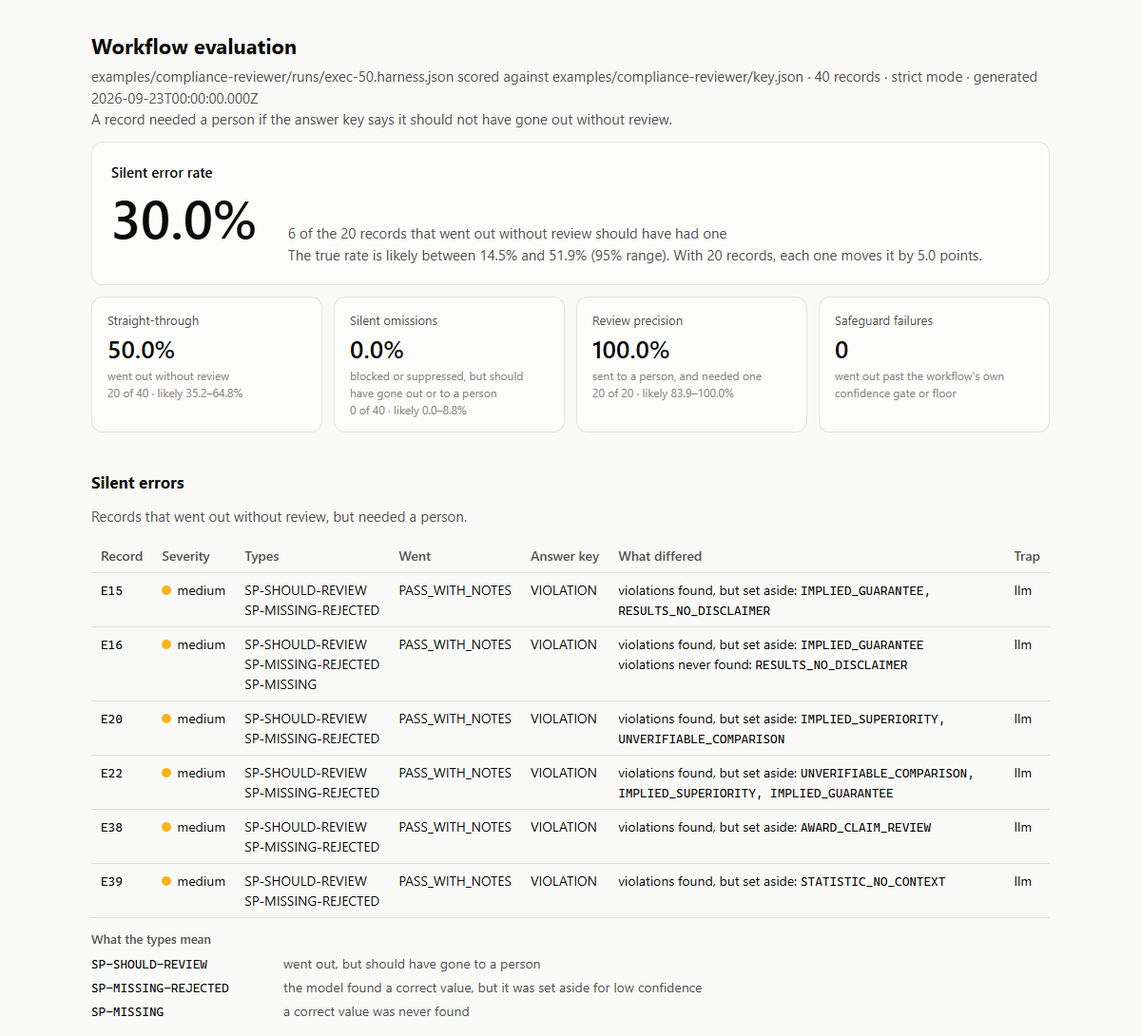
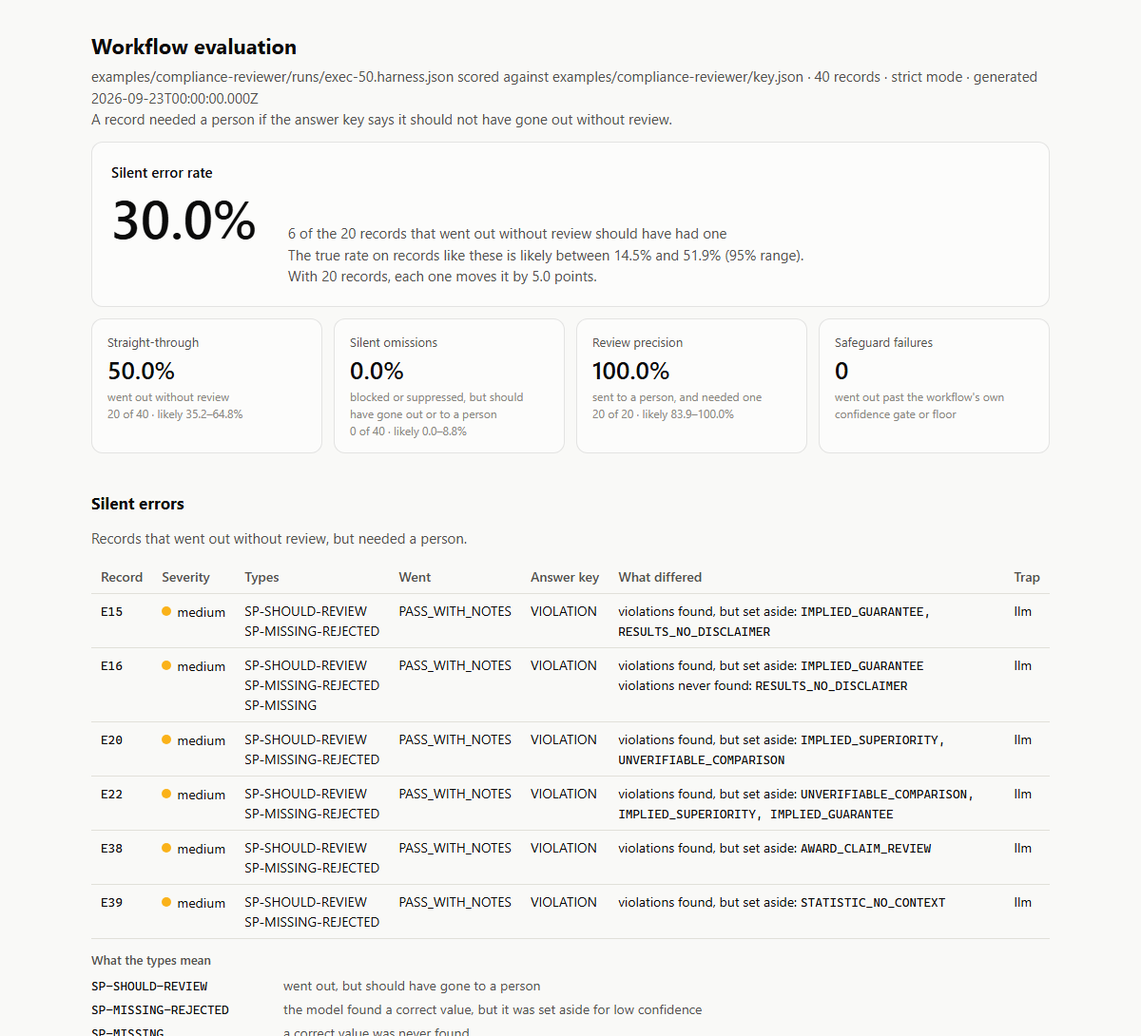
Honest ranges: quote the worst run, label golden-set rates as stress tests
Repeated runs of the same records are not new records. The three v3 runs
sent out 615 records, but only 254 different articles, and an article's
runs tend to go the same way, so the added-up 44 of 615 (likely 5.4-9.5%)
claimed a narrower range than the evidence holds (design effect; Kish 1965).
The README and notes now quote each run, and the worst: 18 of 210, likely
5.5-13.1%. The held-out half is reported run by run (worst 8 of 105,
likely 3.9-14.3%). Runs 61-63's "0 of 23, up to 14%" was the same 8
articles each time; one run's 0 of 7 allows up to 35%.

`variance` now names the worst run as the figure to quote and counts how
many different records the runs' totals are (trap I8), with a hand-worked
fixture test.

The Golden 500 sets were built to cover each workflow's traps, so their
rates (9.8%, 27%, v3's runs) are stress-test rates, not rates for real
traffic; that needs a random sample or stratum weights (Cochran 1977,
ch. 5). README, notes, docs and the Pages index say so, and reports now
say the likely range is for "records like these". Sample reports and the
README screenshot regenerated.

diff --git a/test/examples.test.js b/test/examples.test.js
@@ -65,6 +65,11 @@ test('runs 61-63: identical code, the numbers that moved and the one value state
   // workflow's salience gate exists for exactly this marginal claim (trap I7).
   assert.deepEqual(v.records.key_gap_candidates.filter(g => g.runs === g.of).map(g => [g.id, g.value]), [['A01', 'SUBJ-ANTI']]);
   assert.deepEqual(v.problems, []);
+  // 0 silent errors in 23 records out is the same 8 articles again and again (trap I8). The
+  // figure to quote is one run's: all three are 0%, and 0 of 7 has the widest range.
+  const w = v.silent_error_rate.worst_run;
+  assert.deepEqual([w.run, w.n, w.d, w.high_pct], [1, 0, 7, 35.4]);
+  assert.deepEqual([v.silent_error_rate.times_out, v.silent_error_rate.records_out], [23, 8]);
 });
 
 // Real data: both workflows on their 500-record golden sets. These pin the figures the README
@@ -87,20 +92,45 @@ test('Golden 500, metadata: v3 below 10% in three identical runs, beyond the noi
   const run = n => path.join(G, 'exec-' + n + '.json');
   const v = varianceRun({ config: cfg, keyPath: run(70), predPaths: [run(70), run(71), run(72)] });
   assert.deepEqual(v.metrics.find(m => m.name === 'silent error rate').values, [6.5, 6.3, 8.6]);
+  // The figure to quote is the worst run, never the runs added together (trap I8): their 615
+  // records out are 254 different articles.
+  const w = v.silent_error_rate.worst_run;
+  assert.deepEqual([w.run, w.n, w.d, w.low_pct, w.high_pct], [3, 18, 210, 5.5, 13.1]);
+  assert.deepEqual([v.silent_error_rate.times_out, v.silent_error_rate.records_out], [615, 254]);
   const c = compareRun({ config: cfg, keyPath: run(70), beforePath: run(69), afterPath: run(71), noisePaths: [run(70), run(71), run(72)] });
   assert.equal(c.metrics.find(m => m.name === 'silent error rate').verdict, 'beyond noise');
   const v1 = scoreRun({ config: cfg, predPath: run(68), keyPath: run(68) });
   assert.deepEqual([v1.routing.silent_errors.rate.n, v1.routing.silent_errors.rate.d], [54, 200]);
+  // Inside the 500, v1 again sent the original 24 articles out without an error (0 of 9).
+  const out = v1.records.filter(r => r.route_class === 'auto');
+  const original = out.filter(r => /^A\d+$/.test(r.id));
+  assert.deepEqual([original.filter(r => r.silent).length, original.length], [0, 9]);
 });
 
-test('Golden 500, metadata: the pooled v3 rate, and v1 articles missing a regulation or litigation subject', () => {
+// The guard's 0.40 was chosen on the articles whose id's CRC-32 (zlib's) is even, and checked
+// on the odd ones. Written out because zlib.crc32 needs Node 22.2.
+const CRC = Array.from({ length: 256 }, (_, n) => { let c = n; for (let k = 0; k < 8; k++) c = c & 1 ? 0xedb88320 ^ (c >>> 1) : c >>> 1; return c >>> 0; });
+const crc32 = s => { let c = 0xffffffff; for (const b of Buffer.from(s)) c = CRC[(c ^ b) & 0xff] ^ (c >>> 8); return (c ^ 0xffffffff) >>> 0; };
+
+test('Golden 500, metadata: v3 run by run on the tuning and held-out halves, and v1 articles missing a regulation or litigation subject', () => {
+  const { rate } = require('../src/metrics/stats.js');
+  assert.equal(crc32('123456789'), 0xcbf43926);   // the standard CRC-32 check value
   const G = path.join(dir, 'golden500');
   const cfg = loadConfig(path.join(G, 'config.json'));
   const run = n => path.join(G, 'exec-' + n + '.json');
-  // Pooled over the three v3 runs: counts added, never the three rates averaged (7.1%).
-  let n = 0, d = 0;
-  for (const r of [70, 71, 72]) { const s = scoreRun({ config: cfg, predPath: run(r), keyPath: run(r) }).routing.silent_errors.rate; n += s.n; d += s.d; }
-  assert.deepEqual([n, d, Number((100 * n / d).toFixed(1))], [44, 615, 7.2]);
+  // Each run on its own; never added up (trap I8).
+  const halves = { tuning: [], held_out: [] };
+  for (const n of [70, 71, 72]) {
+    const out = scoreRun({ config: cfg, predPath: run(n), keyPath: run(n) }).records.filter(r => r.route_class === 'auto');
+    for (const [name, parity] of [['tuning', 0], ['held_out', 1]]) {
+      const half = out.filter(r => crc32(r.id) % 2 === parity);
+      halves[name].push([half.filter(r => r.silent).length, half.length]);
+    }
+  }
+  assert.deepEqual(halves.tuning, [[8, 107], [6, 100], [10, 105]]);
+  assert.deepEqual(halves.held_out, [[5, 92], [7, 106], [8, 105]]);
+  const worst = rate(8, 105);
+  assert.deepEqual([worst.pct, worst.low_pct, worst.high_pct], [7.6, 3.9, 14.3]);
   // v1: count articles, not problems. B223 is missing both subjects.
   const silent = scoreRun({ config: cfg, predPath: run(68), keyPath: run(68) }).records.filter(r => r.silent);
   const missing = (r, code) => ['missing', 'missing_rejected'].some(b => ((r.differences[b] || {}).SUBJECT || []).includes(code));

diff --git a/docs/samples/compliance-golden500.html b/docs/samples/compliance-golden500.html
@@ -70,7 +70,7 @@ td.num, th.num { text-align: right; font-variant-numeric: tabular-nums; white-sp
 @media (max-width: 560px) { .hero-value { font-size: 44px; } }
 </style></head><body><main><h1>Workflow evaluation</h1>
 <p class="meta">examples/compliance-reviewer/golden500/exec-67.harness.json scored against examples/compliance-reviewer/golden500/exec-67.harness.json · 500 records · strict mode · generated 2026-09-29T00:00:00.000Z<br>A record needed a person if the answer key says it should not have gone out without review.</p>
-<section class="card hero"><div class="hero-label">Silent error rate</div><div class="hero-value">9.8%</div><div class="hero-note">25 of the 256 records that went out without review should have had one<br>The true rate is likely between 6.7% and 14.0% (95% range). With 256 records, each one moves it by 0.4 points.</div></section>
+<section class="card hero"><div class="hero-label">Silent error rate</div><div class="hero-value">9.8%</div><div class="hero-note">25 of the 256 records that went out without review should have had one<br>The true rate on records like these is likely between 6.7% and 14.0% (95% range).<br>With 256 records, each one moves it by 0.4 points.</div></section>
 <div class="tiles"><div class="tile"><div class="tile-label">Straight-through</div><div class="tile-value">51.2%</div><div class="tile-note">went out without review<br>256 of 500 · likely 46.8–55.6%</div></div><div class="tile"><div class="tile-label">Silent omissions</div><div class="tile-value">0.0%</div><div class="tile-note">blocked or suppressed, but should have gone out or to a person<br>0 of 500 · likely 0.0–0.8%</div></div><div class="tile"><div class="tile-label">Review precision</div><div class="tile-value">89.3%</div><div class="tile-note">sent to a person, and needed one<br>218 of 244 · likely 84.8–92.6%</div></div><div class="tile"><div class="tile-label">Safeguard failures</div><div class="tile-value">0</div><div class="tile-note">went out past the workflow's own confidence gate or floor</div></div></div>
 <h2>Silent errors</h2>
 <p>Records that went out without review, but needed a person.</p>

diff --git a/docs/samples/compliance-before.html b/docs/samples/compliance-before.html
@@ -70,7 +70,7 @@ td.num, th.num { text-align: right; font-variant-numeric: tabular-nums; white-sp
 @media (max-width: 560px) { .hero-value { font-size: 44px; } }
 </style></head><body><main><h1>Workflow evaluation</h1>
 <p class="meta">examples/compliance-reviewer/runs/exec-50.harness.json scored against examples/compliance-reviewer/key.json · 40 records · strict mode · generated 2026-09-23T00:00:00.000Z<br>A record needed a person if the answer key says it should not have gone out without review.</p>
-<section class="card hero"><div class="hero-label">Silent error rate</div><div class="hero-value">30.0%</div><div class="hero-note">6 of the 20 records that went out without review should have had one<br>The true rate is likely between 14.5% and 51.9% (95% range). With 20 records, each one moves it by 5.0 points.</div></section>
+<section class="card hero"><div class="hero-label">Silent error rate</div><div class="hero-value">30.0%</div><div class="hero-note">6 of the 20 records that went out without review should have had one<br>The true rate on records like these is likely between 14.5% and 51.9% (95% range).<br>With 20 records, each one moves it by 5.0 points.</div></section>
 <div class="tiles"><div class="tile"><div class="tile-label">Straight-through</div><div class="tile-value">50.0%</div><div class="tile-note">went out without review<br>20 of 40 · likely 35.2–64.8%</div></div><div class="tile"><div class="tile-label">Silent omissions</div><div class="tile-value">0.0%</div><div class="tile-note">blocked or suppressed, but should have gone out or to a person<br>0 of 40 · likely 0.0–8.8%</div></div><div class="tile"><div class="tile-label">Review precision</div><div class="tile-value">100.0%</div><div class="tile-note">sent to a person, and needed one<br>20 of 20 · likely 83.9–100.0%</div></div><div class="tile"><div class="tile-label">Safeguard failures</div><div class="tile-value">0</div><div class="tile-note">went out past the workflow's own confidence gate or floor</div></div></div>
 <h2>Silent errors</h2>
 <p>Records that went out without review, but needed a person.</p>

diff --git a/docs/samples/compliance-after.html b/docs/samples/compliance-after.html
@@ -70,7 +70,7 @@ td.num, th.num { text-align: right; font-variant-numeric: tabular-nums; white-sp
 @media (max-width: 560px) { .hero-value { font-size: 44px; } }
 </style></head><body><main><h1>Workflow evaluation</h1>
 <p class="meta">examples/compliance-reviewer/runs/exec-59.harness.json scored against examples/compliance-reviewer/key.json · 40 records · strict mode · generated 2026-09-23T00:00:00.000Z<br>A record needed a person if the answer key says it should not have gone out without review.</p>
-<section class="card hero"><div class="hero-label">Silent error rate</div><div class="hero-value">6.7%</div><div class="hero-note">1 of the 15 records that went out without review should have had one<br>The true rate is likely between 1.2% and 29.8% (95% range). With 15 records, each one moves it by 6.7 points.</div></section>
+<section class="card hero"><div class="hero-label">Silent error rate</div><div class="hero-value">6.7%</div><div class="hero-note">1 of the 15 records that went out without review should have had one<br>The true rate on records like these is likely between 1.2% and 29.8% (95% range).<br>With 15 records, each one moves it by 6.7 points.</div></section>
 <div class="tiles"><div class="tile"><div class="tile-label">Straight-through</div><div class="tile-value">37.5%</div><div class="tile-note">went out without review<br>15 of 40 · likely 24.2–53.0%</div></div><div class="tile"><div class="tile-label">Silent omissions</div><div class="tile-value">0.0%</div><div class="tile-note">blocked or suppressed, but should have gone out or to a person<br>0 of 40 · likely 0.0–8.8%</div></div><div class="tile"><div class="tile-label">Review precision</div><div class="tile-value">100.0%</div><div class="tile-note">sent to a person, and needed one<br>25 of 25 · likely 86.7–100.0%</div></div><div class="tile"><div class="tile-label">Safeguard failures</div><div class="tile-value">0</div><div class="tile-note">went out past the workflow's own confidence gate or floor</div></div></div>
 <h2>Silent errors</h2>
 <p>Records that went out without review, but needed a person.</p>

diff --git a/src/metrics/runs.js b/src/metrics/runs.js
@@ -95,6 +95,29 @@ function keyGapCandidates(runs, config) {
     .sort((a, b) => b.runs - a.runs);
 }
 
+// The silent error rate to quote from repeated runs: the worst run's, with its likely range.
+// Never the runs added together (trap I8). They repeat the same records, and a record's runs
+// tend to go the same way, so an added-up count looks like more evidence than it is and its
+// likely range comes out too narrow. Worst means the highest rate, compared as exact fractions
+// (trap G6); on a tie, the run with the wider range. times_out counts a record once per run it
+// went out in; records_out counts it once.
+function silentToQuote(runs) {
+  const rates = runs.map(run => run.results.routing.silent_errors.rate);
+  let worst = null;
+  rates.forEach((r, i) => {
+    if (r.d === 0) return;
+    const w = worst === null ? null : rates[worst];
+    if (w === null || r.n * w.d > w.n * r.d || (r.n * w.d === w.n * r.d && r.high_pct > w.high_pct)) worst = i;
+  });
+  const out = new Set();
+  for (const run of runs) for (const rec of run.results.records) if (rec.route_class === 'auto') out.add(rec.id);
+  return {
+    worst_run: worst === null ? null : { run: worst + 1, label: runs[worst].label, ...rates[worst] },
+    times_out: rates.reduce((s, r) => s + r.d, 0),
+    records_out: out.size,
+  };
+}
+
 // runs: [{ label, results }], two or more.
 function varianceOf(runs, config) {
   const metrics = metricList(runs[0].results).map(m => {
@@ -122,6 +145,7 @@ function varianceOf(runs, config) {
   return {
     runs: runs.map(r => r.label),
     metrics,
+    silent_error_rate: silentToQuote(runs),
     records: {
       route_changed: rows.filter(r => new Set(r.routes).size > 1).map(r => ({ id: r.id, routes: r.routes, should: r.gold_route })),
       silent_changed: rows.filter(r => new Set(r.silent).size > 1).map(r => ({ id: r.id, silent: r.silent })),

diff --git a/docs/samples/metadata-golden500.html b/docs/samples/metadata-golden500.html
@@ -70,7 +70,7 @@ td.num, th.num { text-align: right; font-variant-numeric: tabular-nums; white-sp
 @media (max-width: 560px) { .hero-value { font-size: 44px; } }
 </style></head><body><main><h1>Workflow evaluation</h1>
 <p class="meta">examples/metadata-enrichment/golden500/exec-70.json scored against examples/metadata-enrichment/golden500/exec-70.json · 500 records · strict mode · generated 2026-09-29T00:00:00.000Z<br>A record needed a person if its values differ from the answer key.</p>
-<section class="card hero"><div class="hero-label">Silent error rate</div><div class="hero-value">6.5%</div><div class="hero-note">13 of the 199 records that went out without review should have had one<br>The true rate is likely between 3.9% and 10.9% (95% range). With 199 records, each one moves it by 0.5 points.</div></section>
+<section class="card hero"><div class="hero-label">Silent error rate</div><div class="hero-value">6.5%</div><div class="hero-note">13 of the 199 records that went out without review should have had one<br>The true rate on records like these is likely between 3.9% and 10.9% (95% range).<br>With 199 records, each one moves it by 0.5 points.</div></section>
 <div class="tiles"><div class="tile"><div class="tile-label">Straight-through</div><div class="tile-value">39.8%</div><div class="tile-note">went out without review<br>199 of 500 · likely 35.6–44.2%</div></div><div class="tile"><div class="tile-label">Review precision</div><div class="tile-value">44.0%</div><div class="tile-note">sent to a person, and needed one<br>118 of 268 · likely 38.2–50.0%</div></div><div class="tile"><div class="tile-label">Safeguard failures</div><div class="tile-value">0</div><div class="tile-note">went out past the workflow's own confidence gate or floor</div></div></div>
 <h2>Silent errors</h2>
 <p>Records that went out without review, but needed a person.</p>

diff --git a/src/report/terminal.js b/src/report/terminal.js
@@ -30,7 +30,7 @@ function headline(results) {
   const lines = ['HEADLINE', table(rows, [1, 2])];
   const se = r.silent_errors;
   if (se.one_record_moves_pct !== null && se.rate.d > 1) {
-    lines.push('  The likely range is where the true rate probably sits (95%). With ' + se.rate.d +
+    lines.push('  The likely range is where the true rate on records like these probably sits (95%). With ' + se.rate.d +
       ' records out without review, each one moves the silent error rate by ' + se.one_record_moves_pct.toFixed(1) + ' points.');
   }
   return lines.join('\n');
@@ -187,6 +187,16 @@ function renderVariance(v) {
   } else if (silent && silent.range !== null) {
     parts.push('Identical code put the silent error rate anywhere from ' + fmt(silent.min, 'points') + ' to ' + fmt(silent.max, 'points') +
       '. A single run cannot claim more precision than that ' + fmtSpread(silent.range, 'points') + ' range.');
+  }
+  // Trap I8: quote the worst run, never the runs added together.
+  const q = v.silent_error_rate;
+  if (q.worst_run) {
+    const w = q.worst_run;
+    parts.push('The figure to quote is the worst run, run ' + w.run + ': ' + pct(w) + ' (' + count(w) + '; likely ' + range(w) + ').' +
+      (q.records_out < q.times_out
+        ? ' Not the runs added together: their ' + q.times_out + ' records out without review are ' + q.records_out +
+          ' different records, and a record\'s runs tend to go the same way, so the added-up count would look like more evidence than it is.'
+        : ''));
   }
   const rc = v.records.route_changed;
   parts.push('RECORDS THAT CHANGED ROUTE  ' + (rc.length ? '' : 'none') +

diff --git a/docs/index.html b/docs/index.html
@@ -33,12 +33,15 @@ li a:hover, li a:focus-visible { border-color: var(--link); }
     <li><a href="samples/compliance-after.html"><span class="title">After the prompt fix: silent error rate <span class="rate">6.7%</span></span>
       <span class="detail">1 of 15; the same in all four runs</span></a></li>
   </ul>
-  <h2>Both workflows on 500-record golden sets</h2>
+  <h2>Both workflows on 500-record stress tests</h2>
+  <p>Golden sets built to cover each workflow's traps, so they hold far more hard cases than real
+  traffic. Their rates are stress-test rates, for comparing versions on the same records, not the
+  rate real traffic would see.</p>
   <ul>
     <li><a href="samples/compliance-golden500.html"><span class="title">Compliance reviewer: silent error rate <span class="rate">9.8%</span></span>
       <span class="detail">25 of 256; 15 of the 25 are award claims</span></a></li>
     <li><a href="samples/metadata-golden500.html"><span class="title">News-metadata tagger: silent error rate <span class="rate">6.5%</span></span>
-      <span class="detail">13 of 199 (run 70); 6.3% to 8.6% across three identical runs</span></a></li>
+      <span class="detail">13 of 199 (run 70); 6.3% to 8.6% across three identical runs, the worst 18 of 210</span></a></li>
   </ul>
   <p><a href="https://github.com/DHuberPortfolio/workflow-eval-harness">The code, tests and notes on GitHub</a></p>
 </main>

diff --git a/test/runs.test.js b/test/runs.test.js
@@ -86,6 +86,16 @@ test('I3: the same run passed twice is a warning', () => {
   assert.deepEqual(v.problems.map(p => p.trap), ['I3']);
 });
 
+test('I8: variance quotes the worst run, never the runs added together', () => {
+  const q = V.silent_error_rate;
+  const w = q.worst_run;
+  assert.deepEqual([w.run, w.n, w.d, w.pct, w.low_pct, w.high_pct], [1, 1, 2, 50, 9.5, 90.5]);
+  // Added up, the runs send out 6 records, but those are R1 three times, R2 twice and R4 once.
+  assert.deepEqual([q.times_out, q.records_out], [6, 3]);
+  const { renderVariance } = require('../src/report/terminal.js');
+  assert.match(renderVariance(V), /The figure to quote is the worst run, run 1: 50\.0% \(1 of 2; likely 9\.5-90\.5%\)\. Not the runs added together: their 6 records out without review are 3 different records/);
+});
+
 test('compare a -> b: a 50-point drop in silent errors, yet within the noise of identical runs', () => {
   const c = compareRun({ config, keyPath, beforePath: run('a'), afterPath: run('b'), noisePaths: [run('a'), run('b'), run('c')] });
   const m = metric(c, 'silent error rate');

diff --git a/src/report/html.js b/src/report/html.js
@@ -21,8 +21,8 @@ function heroNote(rate, moves) {
     ? 'The only record that went out without review ' + (rate.n ? 'should have had one' : 'did not need one')
     : rate.n + ' of the ' + rate.d + ' records that went out without review should have had one';
   if (rate.low_pct === null) return what;
-  return what + '<br>The true rate is likely between ' + rate.low_pct.toFixed(1) + '% and ' + rate.high_pct.toFixed(1) + '% (95% range).' +
-    (rate.d > 1 && moves !== null ? ' With ' + rate.d + ' records, each one moves it by ' + moves.toFixed(1) + ' points.' : '');
+  return what + '<br>The true rate on records like these is likely between ' + rate.low_pct.toFixed(1) + '% and ' + rate.high_pct.toFixed(1) + '% (95% range).' +
+    (rate.d > 1 && moves !== null ? '<br>With ' + rate.d + ' records, each one moves it by ' + moves.toFixed(1) + ' points.' : '');
 }
 
 // An error type such as SP-SHOULD-REVIEW, kept on one line rather than broken at its hyphens.

diff --git a/test/html.test.js b/test/html.test.js
@@ -19,7 +19,7 @@ test('the report is one file: no external scripts, styles, fonts or images', () 
 test('the headline and the silent error record are in the report', () => {
   assert.match(html, /<div class="hero-value">50\.0%<\/div>/);
   assert.match(html, /1 of the 2 records that went out without review should have had one/);
-  assert.match(html, /The true rate is likely between 9\.5% and 90\.5% \(95% range\)\. With 2 records, each one moves it by 50\.0 points\./);
+  assert.match(html, /The true rate on records like these is likely between 9\.5% and 90\.5% \(95% range\)\.<br>With 2 records, each one moves it by 50\.0 points\./);
   assert.match(html, /<code>R2<\/code>/);
   assert.match(html, /SUBJ-ANTI/);
 });

diff --git a/README.md b/README.md
@@ -13,6 +13,13 @@ Both are AI workflows built in n8n. Each was scored first on a small golden set,
 500-record golden set built to cover its traps. The harness reads their exports through a
 config, the same way it reads a Zapier export, a script's log, an API response or a spreadsheet.
 
+None of these golden sets is a random sample of real traffic: each record was written to test
+something, and the 500-record sets hold far more hard cases than real traffic would. So every
+rate below is a **stress-test rate**: how the workflow does on records chosen to trip it, the
+right yardstick for comparing versions on the same set, but not the rate its real traffic would
+see. That takes a random sample of real traffic with its own answer key, or each kind of record
+weighted by its real share (stratified estimation; Cochran 1977, ch. 5).
+
 **A compliance reviewer for law-firm advertising.** A regex layer catches banned words; an
 LLM catches implied violations, and holds the copy for a person only when its confidence
 clears the client's threshold. Below the threshold, the finding becomes a note and the copy
@@ -26,9 +33,9 @@ threshold: a prompt that anchors what each confidence level means brought it to 
 runs out of four, a drop well beyond the old prompt's run-to-run noise. The workflow's
 scorecard now reports the silent error rate too.
 
-On 500 documents (243 violations; 257 clean, 112 of them built to look like violations) the
-silent error rate is **9.8%** (25 of 256; likely 6.7-14.0%), with 89.7% of violations reaching
-a person. The larger set shows where the rest is: 15 of the 25 silent errors are award claims
+On a 500-document stress test (243 violations; 257 clean, 112 of them built to look like
+violations) the silent error rate is **9.8%** (25 of 256; likely 6.7-14.0%), with 89.7% of
+violations reaching a person. The larger set shows where the rest is: 15 of the 25 silent errors are award claims
 ("Named to Super Lawyers"), which the model rates 0.75 almost every time, under every client's
 threshold; and 23 of the 26 clean documents sent to a person anyway were flagged by regex
 rules that cannot read context (a fee counted as a result, "We cannot guarantee" read as a
@@ -40,15 +47,20 @@ the answer key lacks, for a person to rule on (the same mistake can repeat every
 ([review](examples/compliance-reviewer/KEY_GAPS.md))
 
 **A news-metadata tagger** (controlled-vocabulary codes on four facets). On 24 articles,
-three runs found 0 silent errors in the 23 that went out without review, which the harness
-said still allowed a true rate up to 14%. On 500 articles it was **27%**. The small set was
-not representative, and a likely range only covers chance, not an unrepresentative golden set.
+three runs sent 7, 8 and 8 articles out without review, none with an error. They were the same
+8 articles each time, and no errors in 8 still allows a true rate up to 32%: the small set
+could never have shown the tagger was good enough. On the 500-article stress test, the same
+pipeline's rate was **27%**.
 
 Two prompt fixes and a new guard (a tag the model proposed but set aside goes to an editor)
-brought it to **7.2% across three runs of identical code** (44 of 615, likely 5.4-9.5%; the
-runs gave 6.3%, 6.5% and 8.6%), a drop beyond run-to-run noise. On the half of the articles the
-guard's threshold was not tuned on, it is 6.6%. The price: 41% of articles now go out without
-review, down from 47%, and more than half of the reviews are ones an editor did not need.
+brought it to **6.3% to 8.6% in three runs of identical code**, a drop beyond run-to-run noise.
+The worst run is the one to quote: 8.6% (18 of 210, likely 5.5-13.1%). The runs are not added
+together: they send out the same articles again (their 615 records out are 254 articles), and
+an article's runs tend to go the same way, so an added-up 44 of 615 would claim a narrower
+range than the evidence holds (the design effect; Kish 1965). On the half of the articles the
+guard's threshold was not tuned on, the runs gave 5.4% to 7.6% (worst: 8 of 105, likely
+3.9-14.3%). The price: about 41% of articles now go out without review, down from 47%, and
+more than half of the reviews are ones an editor did not need.
 ([notes](examples/metadata-enrichment/NOTES.md))
 
 ![The HTML report for the compliance reviewer before its prompt fix: silent error rate 30.0%, six silent errors listed](docs/samples/compliance-before.png)
@@ -56,7 +68,7 @@ review, down from 47%, and more than half of the reviews are ones an editor did 
 Open the full reports, each one self-contained HTML file: the compliance reviewer
 [before](https://dhuberportfolio.github.io/workflow-eval-harness/samples/compliance-before.html) and
 [after](https://dhuberportfolio.github.io/workflow-eval-harness/samples/compliance-after.html) its prompt fix on 40 documents,
-and both workflows on 500 records:
+and both workflows on their 500-record stress tests:
 [compliance reviewer](https://dhuberportfolio.github.io/workflow-eval-harness/samples/compliance-golden500.html),
 [metadata tagger](https://dhuberportfolio.github.io/workflow-eval-harness/samples/metadata-golden500.html).
 
@@ -72,15 +84,18 @@ nothing until something marks it, and the marking is where the two workflows abo
 2. **It counts the mistakes that matter.** In the metadata tagger's first 500-article run, 99%
    of the tags it applied were correct, yet 27% of the articles it published without review
    had an error. An average hides that; the silent error rate does not.
-3. **It says how far to trust a number.** "0 errors in 23" looked perfect; the real rate was
-   27%. Three identical runs gave 6.3%, 6.5% and 8.6%. Likely ranges and repeated runs tell a
-   real improvement from luck, and `compare` says whether a change is beyond noise.
+3. **It says how far to trust a number.** No errors in the 8 articles the tagger sent out
+   looked perfect; it still allowed a rate up to 32%, and on the 500-article stress test the
+   rate was 27%. Three identical runs gave 6.3%, 6.5% and 8.6%: `variance` says to quote the
+   worst, and why the three are not added up. Likely ranges and repeated runs tell a real
+   improvement from luck, and `compare` says whether a change is beyond noise.
 4. **It says why, not just how often.** The model had found the violations and understated its
    confidence, so the fix was the prompt, not the threshold. 15 of 25 misses were award claims.
    Regex rules, not the AI, caused most unnecessary reviews. A pass/fail count points at none
    of that.
 5. **It answers "what if" for free.** Capping thresholds at 0.85 and sending award claims to a
-   person: 1.3%, computed from the recorded answers without running the workflow again.
+   person: 1.3% on the same 500 documents, computed from the recorded answers without running
+   the workflow again.
 6. **It checks the answer key too.** It surfaced 9 real violations the compliance answer key
    had missed, and it stops rather than count anything it cannot read correctly.
 7. **One yardstick for every workflow.** Each workflow's home-made scorecard measures in its own
@@ -109,7 +124,7 @@ HEADLINE
   Review precision      50.0%        1 of 2   9.5-90.5%      sent to a person, and needed one
   Block precision      100.0%        1 of 1   20.7-100.0%    blocked, and the answer key agrees
   Safeguard failures            0 record(s)                  went out past the workflow's own confidence gate or floor
-  The likely range is where the true rate probably sits (95%). With 2 records out without review, each one moves the silent error rate by 50.0 points.
+  The likely range is where the true rate on records like these probably sits (95%). With 2 records out without review, each one moves the silent error rate by 50.0 points.
 
 SILENT ERRORS  1 record(s)  (high 1): went out without review, but needed a person
   R2      high      SP-WRONG, SP-SHOULD-REVIEW   [plausible-extra-tag]
@@ -129,7 +144,7 @@ by number.
 | Command | Question it answers |
 |---|---|
 | `wfeval score` | How did this run do? Silent errors by type and severity, routing, output quality, per-trap results, calibration. `--fail-on critical` exits non-zero, to stop a build. |
-| `wfeval variance` | How much do the numbers move between runs of identical code? Mean, spread and range per metric, the records that behave differently run to run, and possible key gaps: values stated in every run that the answer key does not list, for a person to rule on. |
+| `wfeval variance` | How much do the numbers move between runs of identical code? Mean, spread and range per metric; the worst run's silent error rate, the one to quote (runs are never added together); the records that behave differently run to run; and possible key gaps: values stated in every run that the answer key does not list, for a person to rule on. |
 | `wfeval compare` | Did a change help, or did it move within that noise? Every metric's change against the spread of repeated runs, and every record that was fixed or broken. |
 | `wfeval whatif` | What would the numbers be at another threshold? Sweeps the confidence gate or the confidence floor. |
 | `wfeval check` | Is this config, and this pair of files, readable? Prints what it understood. |
@@ -200,6 +215,10 @@ produces today. Details: [docs/ARCHITECTURE.md](docs/ARCHITECTURE.md).
   whose route could depend on those are marked "needs replay" rather than guessed.
 - Every rate is only as strong as the golden set is large. The likely ranges say how strong
   that is.
+- A likely range covers chance only. It does not make a golden set like real traffic: a set
+  built from traps gives a stress-test rate, and the rate on real traffic needs a random sample
+  of it. Nor does it hold for repeated runs of the same records added together, which is why
+  `variance` quotes the worst run instead.
 
 ## Docs
 
